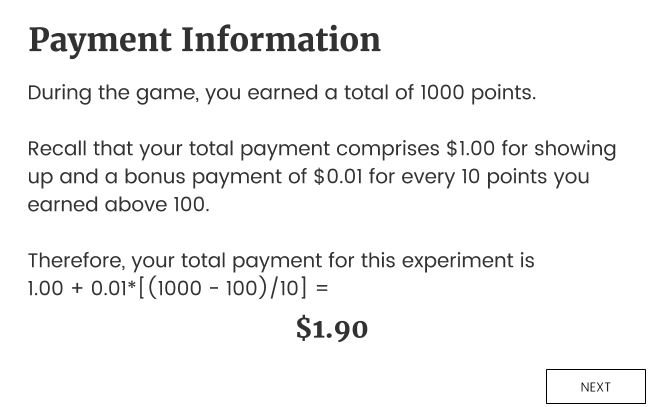
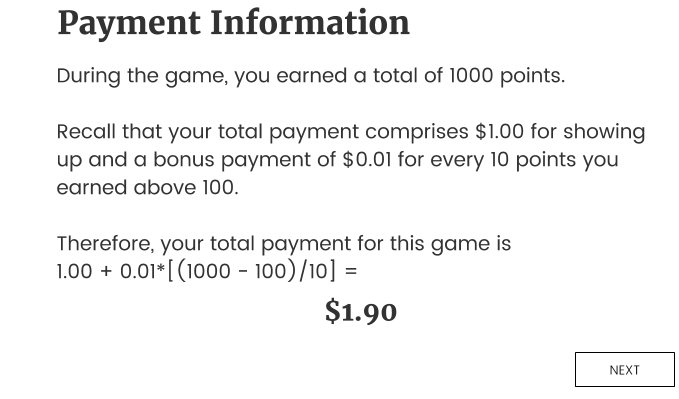
Remove all instances of 'experiment'

diff --git a/src/app/pd-instructions-main/pd-instructions-main.component.html b/src/app/pd-instructions-main/pd-instructions-main.component.html
@@ -60,7 +60,7 @@
 
     <div id="8" *ngIf="this.page8">
       <h2>Bonus Payment</h2>
-      <p>At the end of the experiment, the number of points you have over 100 will correspond
+      <p>At the end of the game, the number of points you have over 100 will correspond
       to your bonus payment, so you will need to collect as many points as possible to 
       maximize your payout. </p>
       <p>You will therefore be paid</p>
@@ -69,8 +69,8 @@
         <li>A bonus payment of $0.01 for every 10 points you earn above 100 points</li>
       </ul>
       <p>For example, if you end up with 1000 points, then you will be paid 1.00 + (0.01)*[(1000 - 100)/10] = 1.00 + 0.90 = $1.90
-      total for the experiment</p>
-      <p><strong>NOTE: you must finish the experiment to receive this
+      total for the game.</p>
+      <p><strong>NOTE: you must finish the game to receive this
       bonus payment.</strong></p>
       <button type="button" class="next-button" (click)="this.setPageEight()">Next</button>
       <button type="button" class="back-button" (click)="this.backPageEight()">Back</button>
@@ -84,8 +84,7 @@
       scale provided to be as accurate as possible with your predictions. </p>
       
 
-      <p>Click "Next" to proceed to the quiz. You must answer correctly to continue with 
-      the experiment.</p>
+      <p>Click "Next" to proceed to the quiz. You must answer correctly to enter the game.</p>
 
       <button type="button" class="next-button" (click)="this.goToQuiz()">Next</button>
       <button type="button" class="back-button" (click)="this.backPageNine()">Back</button>

diff --git a/src/app/pd-payment-info/pd-payment-info.component.html b/src/app/pd-payment-info/pd-payment-info.component.html
@@ -3,7 +3,7 @@
   <p>During the game, you earned a total of {{ this.curPlayerService.player.player_score }} points.</p>
   <p>Recall that your total payment comprises $1.00 for showing up and a bonus payment of $0.01 for 
   every 10 points you earned above 100.</p>
-  <p>Therefore, your total payment for this experiment is <br>
+  <p>Therefore, your total payment for this game is <br>
   1.00 + 0.01*[({{ this.curPlayerService.player.player_score }} - 100)/10] = </p>
 
   <div id="payment">

diff --git a/src/app/pd-intro/pd-intro.component.html b/src/app/pd-intro/pd-intro.component.html
@@ -1,7 +1,7 @@
 <div class="type2-text" id="intro">
   <h1>Welcome {{firstName}}!</h1>
   <div id="intro-text">
-      <p>In this experiment, you will be playing a game with another player! Your goal
+      <p>In this task, you will be playing a game with another player! Your goal
       in this game is to <strong>collect as many points as possible</strong>.</p>
   </div> <!-- div id="intro" -->
   <div id="note">

diff --git a/src/app/pd-instructions-main/pd-instructions-main.component.css b/src/app/pd-instructions-main/pd-instructions-main.component.css
@@ -2,7 +2,7 @@
   width: 37%;
   float: left;
   background: #24c3ad;
-  margin: -20px 0 0 -10px;
+  margin: -15px 0 0 -10px;
   color: white;
 }
 
@@ -15,7 +15,7 @@ h2 {
 
 #instructions-pages {
   width: 85%;
-  margin-left: 30px;
+  margin: 10px 0 0 35px;
   height: 100vh;
 }
 

diff --git a/src/app/pd-game/pd-game.component.css b/src/app/pd-game/pd-game.component.css
@@ -196,6 +196,3 @@ h4 {
   line-height: 140%;
 }
 
-.cooperate p {
-  color: green;
-}
